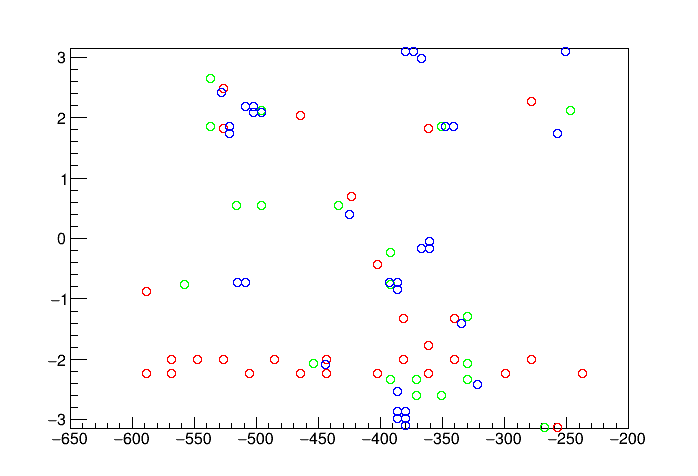
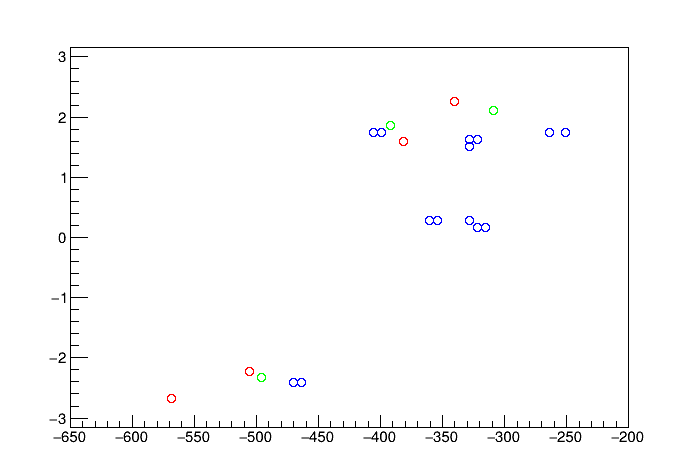
spiral track definition

diff --git a/mu3e/pixhits.c b/mu3e/pixhits.c
@@ -101,7 +101,7 @@ void pixhits()
     mu3e_tree->SetBranchAddress("hit_pixelid", &pix_hit_ids);
 
     //for (int i = 0; i < mu3e_tree->GetEntries(); ++i)
-    for (int i = 1; i < 2; ++i)
+    for (int i = 2; i < 3; ++i)
     {
         mu3e_tree->GetEntry(i);
         for (int j = 0; j < pix_hit_ids->size(); ++j)
@@ -178,7 +178,7 @@ void pixhits()
     canvas1->SaveAs("./Images/Tracking/Pixel Z Distribution.png");
     auto canvas2 = new TCanvas();
     pix_r_distribution->Draw();
-    canvas1->SaveAs("./Images/Tracking/Pixel R Distribution.png");
+    canvas2->SaveAs("./Images/Tracking/Pixel R Distribution.png");
 
 
     auto canvas3 = new TCanvas();
